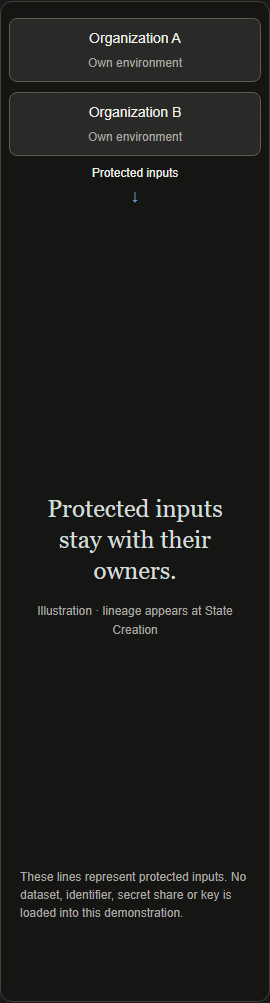
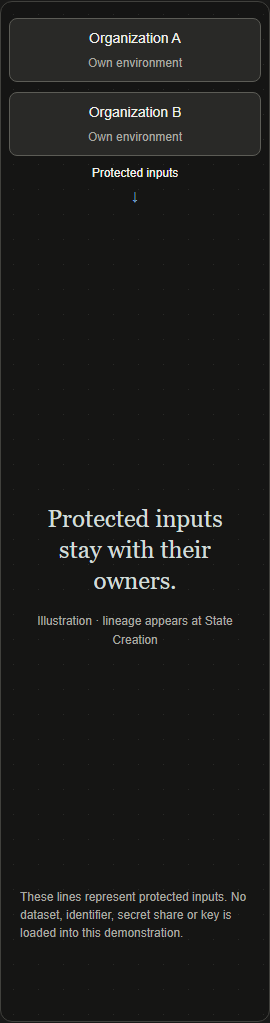
fix(web): stabilize hidden mobile state line boxes

diff --git a/apps/web/tests/browser/home.spec.ts b/apps/web/tests/browser/home.spec.ts
@@ -131,6 +131,9 @@ test("review F03: narrow ordered state cards have readable noncolliding labels",
     const labels=await show.locator(".showcase-state > span, .showcase-state strong > span, .showcase-state small, .showcase-context dt, .showcase-context dd").evaluateAll(es=>es.map(e=>({font:parseFloat(getComputedStyle(e).fontSize),rect:e.getBoundingClientRect().toJSON(),parent:e.parentElement!.getBoundingClientRect().toJSON(),overflow:e.scrollWidth>e.clientWidth+1})));
     for(const label of labels) {expect(label.font).toBeGreaterThanOrEqual(12);expect(label.rect.left).toBeGreaterThanOrEqual(label.parent.left);expect(label.rect.right).toBeLessThanOrEqual(label.parent.right+1);expect(label.overflow).toBe(false);}
     for(const state of await show.locator(".showcase-state").all()) {
+      // Explicit line boxes also cover hidden monospace metrics before the
+      // first screenshot/font resolution on Linux, without relaxing stability.
+      expect(await state.locator("strong, strong > span").evaluateAll(es=>es.map(e=>getComputedStyle(e).lineHeight))).toEqual(["20px","20px"]);
       const lines=await state.locator(":scope > span, :scope > strong, :scope > small").evaluateAll(es=>es.map(e=>e.getBoundingClientRect().toJSON()));
       for(let i=1;i<lines.length;i++) expect(lines[i].top).toBeGreaterThanOrEqual(lines[i-1].bottom);
     }

diff --git a/apps/web/src/features/marketing/home.css b/apps/web/src/features/marketing/home.css
@@ -84,7 +84,7 @@
   .showcase-dag svg { display: none; }
   .showcase-dag ol { display: grid; gap: 14px; }
   .showcase-state { position: static; width: 100%; min-height: 108px; transform: none; padding: 12px; gap: 7px; }
-  .showcase-state > span { font-size: 12px; }.showcase-state strong { font-size: 16px; }.showcase-state strong span { font-size: 14px; }.showcase-state small { font-size: 12px; }
+  .showcase-state > span { font-size: 12px; }.showcase-state strong { font-size: 16px; line-height: 20px; }.showcase-state strong span { font-size: 14px; line-height: 20px; }.showcase-state small { font-size: 12px; }
   .showcase-lineage figcaption { font-size: 12px; line-height: 1.7; }
   .showcase-organizations { flex-direction: column; gap: 10px; }.showcase-organizations > span { font-size: 14px; }.showcase-organizations small { font-size: 12px; }
   .showcase-protected-inputs, .showcase-operation, .showcase-operation > span { font-size: 12px; }

diff --git a/docs/m8/pr7/REVIEW-FIX-REPORT.md b/docs/m8/pr7/REVIEW-FIX-REPORT.md
@@ -35,6 +35,14 @@ test results. Final published SHA and exact-head CI outcomes are recorded in PR2
   a false S2→S3 transition: the exact parent lists and summary preserve
   S1→S2, S1→S3, S2→S4, S3→S4, with S4 parents **[S2, S3]**. The separate persistent
   state illustration shares these readable cards and the unchanged canonical model.
+  The first hosted Linux run exposed a 4 px scene-height drift: its trace shows
+  all four hidden cards shrinking by exactly 1 px between Organizations and
+  Protected Inputs (115.1875→114.1875 px per card), while the context height is
+  unchanged. Explicit 20 px line boxes for mobile IDs/titles replace platform
+  `normal` font metrics. The original <1 px scene-stability assertion is retained;
+  the targeted mobile regression also checks both computed line heights.
+  Exact measurements and upstream run/artifact references are preserved in
+  [LINUX-HEIGHT-DIAGNOSTIC.json](review-fixes/LINUX-HEIGHT-DIAGNOSTIC.json).
 - **F04:** remove only `unoptimized`, supply breakpoint-specific `sizes` and use
   the existing Next.js default local image optimizer. No Next configuration,
   dependency, CDN, remote source or security header changes. Intrinsic dimensions,
@@ -95,7 +103,7 @@ claim that mobile content fits into one screen. Viewport captures retain the nav
   process allowed the unchanged clean-install command to succeed.
 - Final-source lint (zero warnings), **106 unit/component tests**, production
   build (68 pages) and typecheck: PASS.
-- Final-source complete Chromium: **145 PASS / 2 inherited justified non-mobile
+- Complete local Chromium before the hosted line-metrics follow-up: **145 PASS / 2 inherited justified non-mobile
   inspector exclusions**, 147 total, 3.5 minutes. Baseline 133 passes retained,
   plus four targeted cases across three profiles. No added skip or retry.
 - CI classifier: **31 PASS**, unchanged. Browser request, storage, page-error,
@@ -104,9 +112,16 @@ claim that mobile content fits into one screen. Viewport captures retain the nav
   suspension failure described above. After the timer correction, that unchanged
   scenario passed **five consecutive WebKit mobile executions**.
 
-- Final-source complete Windows WebKit: **30 PASS**, 2.9 minutes. All 22 baseline
+- Complete local Windows WebKit before the hosted line-metrics follow-up: **30 PASS**, 2.9 minutes. All 22 baseline
   cases retained, plus four targeted cases across desktop/mobile. Chromium is
   156.0.8078.4; WebKit is the pinned Playwright 27.2 engine.
+- Hosted Linux on first published `5c575b8`: 144 Chromium passes, 1 mobile
+  stability failure and 2 inherited exclusions. Trace inspected and correction
+  scoped to explicit mobile line boxes; unchanged stability assertion retained.
+  After correction: lint, 106 unit tests, build, typecheck, **21 targeted Chromium
+  passes** and 31 classifier passes. Final complete-suite and exact-head CI
+  outcomes are recorded in PR20 after publication; no earlier green run is
+  represented as a green hosted run of this changed head.
 
 Exact published commit and hosted workflow/check results are maintained in PR20
 to avoid creating another commit merely to embed its own SHA. No error suppression
@@ -127,7 +142,8 @@ Seven documentation/tracking files: `CHANGELOG.md`, `TODO.md`,
 `docs/DECISIONS.md`, `docs/m8/pr1/SECURITY-EXCEPTION.md`,
 `docs/m8/pr7/README.md`, `FREEZE-QA-REPORT.md` and this report.
 The [review-fixes directory](review-fixes) adds **39 PNG captures** plus
-`OBSERVATIONS.json` and `SECURITY-CHECKS.json`: **53 changed files** in this follow-up.
+`OBSERVATIONS.json`, `SECURITY-CHECKS.json` and `LINUX-HEIGHT-DIAGNOSTIC.json`:
+**54 changed files** in this follow-up against the independently reviewed head.
 
 ## Security reevaluation
 
